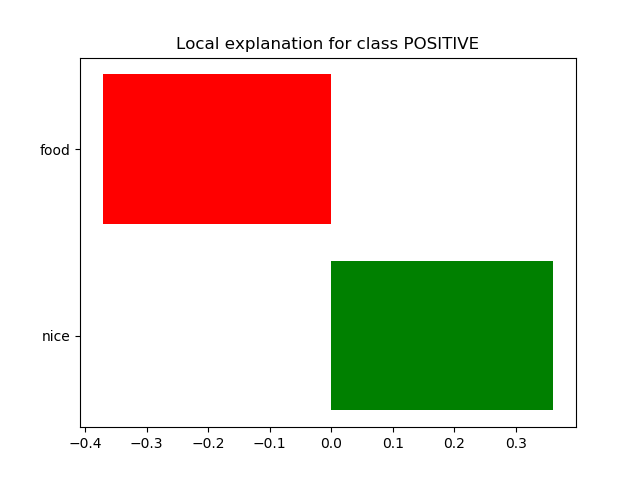
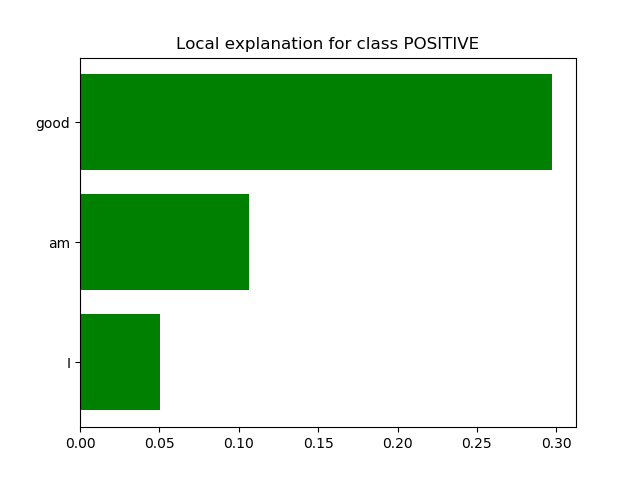
Minor fixes

diff --git a/templates/dashboard.html b/templates/dashboard.html
@@ -9,7 +9,7 @@
 
 <header>
     <div class="container">
-        <h2>CSE 256 Project NLP</h2>
+        <h2>NLP Text Classification</h2>
 
     </div>
 </header>
@@ -18,8 +18,8 @@
    <div class="inputs-container">
     <div class="tabs">
     <ul class="tab-links">
-        <li class="active"><a href="#tab1">Part 1</a></li>
-        <li><a href="#tab2">Part 2</a></li>
+        <li class="active"><a href="#tab1">Sentiment-analysis</a></li>
+        <li><a href="#tab2">Quora-question-sincerity</a></li>
     </ul>
 
     <div class="tab-content">
@@ -27,7 +27,7 @@
             <div class="ml-container">
 
                 <form action="{{ url_for('predict') }}" method="POST">
-                    <p>Enter your text for Part 1</p>
+                    <p>Enter text to check its sentiment</p>
                     <!-- <input type="text" name="comment"/> -->
                     <textarea name="comment" align="center"
                               style="border-radius: 5px; width:200px; height: 50px;"></textarea>
@@ -47,7 +47,7 @@
             <div class="ml-container">
 
                 <form action="{{ url_for('predict') }}" method="POST">
-                    <p>Enter your text for Part 2</p>
+                    <p>Enter text to check if it's a sincere Quora question</p>
                     <!-- <input type="text" name="comment"/> -->
                     <textarea name="comment" align="center"
                               style="border-radius: 5px; width:200px; height: 50px;"></textarea>
@@ -104,8 +104,8 @@
 {#     <div class="ml-container">#}
 {#         <div class="tabs">#}
 {#    <ul class="tab-links">#}
-{#        <li class="active"><a href="#tab1">Part 1</a></li>#}
-{#        <li><a href="#tab2">Part 2</a></li>#}
+{#        <li class="active"><a href="#tab1">Quora-question-sincerity</a></li>#}
+{#        <li><a href="#tab2">Sentiment-analysis</a></li>#}
 {#    </ul>#}
 {##}
 {#    <div class="tab-content">#}
@@ -124,7 +124,7 @@
 {#            <div class="ml-container">#}
 {##}
 {#                <form action="{{ url_for('predict') }}" method="POST">#}
-{#                    <p>Enter your text for Part 2</p>#}
+{#                    <p>Enter text to check if it's a sincere Quora question</p>#}
 {#                    <!-- <input type="text" name="comment"/> -->#}
 {#                    <textarea name="comment" align="center"#}
 {#                              style="border-radius: 5px; width:200px; height: 50px;"></textarea>#}
@@ -158,4 +158,3 @@
 
 </body>
 </html>
-

diff --git a/static/outputs/output.html b/static/outputs/output.html
@@ -37088,25 +37088,25 @@
 /***/ })
 /******/ ]);
 //# sourceMappingURL=bundle.js.map </script></head><body>
-        <div class="lime top_div" id="top_divKWGQCEW80LMLEID"></div>
+        <div class="lime top_div" id="top_divAXZ540851GVVA9L"></div>
         
         <script>
-        var top_div = d3.select('#top_divKWGQCEW80LMLEID').classed('lime top_div', true);
+        var top_div = d3.select('#top_divAXZ540851GVVA9L').classed('lime top_div', true);
         
             var pp_div = top_div.append('div')
                                 .classed('lime predict_proba', true);
             var pp_svg = pp_div.append('svg').style('width', '100%');
-            var pp = new lime.PredictProba(pp_svg, ["NEGATIVE", "POSITIVE"], [0.5414400987796161, 0.4585599012203839]);
+            var pp = new lime.PredictProba(pp_svg, ["NEGATIVE", "POSITIVE"], [0.06111400466848449, 0.9388859953315155]);
             
         
         var exp_div;
             var exp = new lime.Explanation(["NEGATIVE", "POSITIVE"]);
         
                 exp_div = top_div.append('div').classed('lime explanation', true);
-                exp.show([["food", -0.371494577343136], ["nice", 0.3612139003045668]], 1, exp_div);
+                exp.show([["good", 0.29747994272949135], ["am", 0.106689248497401], ["I", 0.05035546960698805]], 1, exp_div);
                 
         var raw_div = top_div.append('div');
-            exp.show_raw_text([["food", 5, -0.371494577343136], ["nice", 0, 0.3612139003045668]], 1, "nice food", raw_div, true);
+            exp.show_raw_text([["good", 5, 0.29747994272949135], ["am", 2, 0.106689248497401], ["I", 0, 0.05035546960698805]], 1, "I am good", raw_div, true);
             
         </script>
         </body></html>

diff --git a/templates/home.html b/templates/home.html
@@ -9,7 +9,7 @@
 
 	<header>
 		<div class="container">
-		<h2>CSE 256 Project NLP</h2>
+		<h2>NLP Text Classification</h2>
 
 	</div>
 	</header>
@@ -17,7 +17,7 @@
 	<div class="ml-container">
 
 		<form action="{{ url_for('predict')}}" method="POST">
-            <p>Enter your text </p>
+            <p>Enter text to check if it's a sincere Quora question</p>
             <!-- <input type="text" name="comment"/> -->
             <textarea name="comment" align="center" style="border-radius: 5px; width:50%; height: 50px;"></textarea>
             <br/>
@@ -66,4 +66,3 @@
 
 </body>
 </html>
-

diff --git a/templates/result.html b/templates/result.html
@@ -8,7 +8,7 @@
 
 	<header>
 		<div class="container">
-		<h2>CSE 256 Project NLP</h2>
+		<h2>NLP Text Classification</h2>
 
 	</div>
 	</header>
